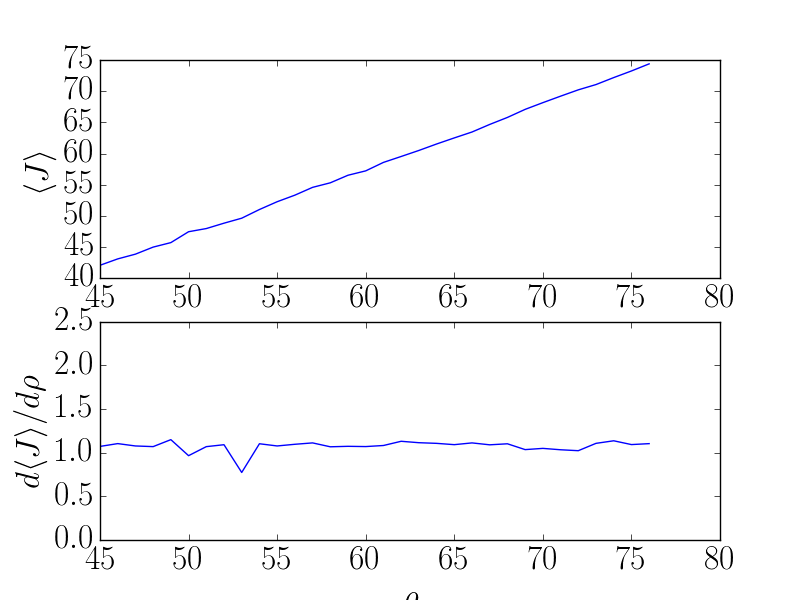
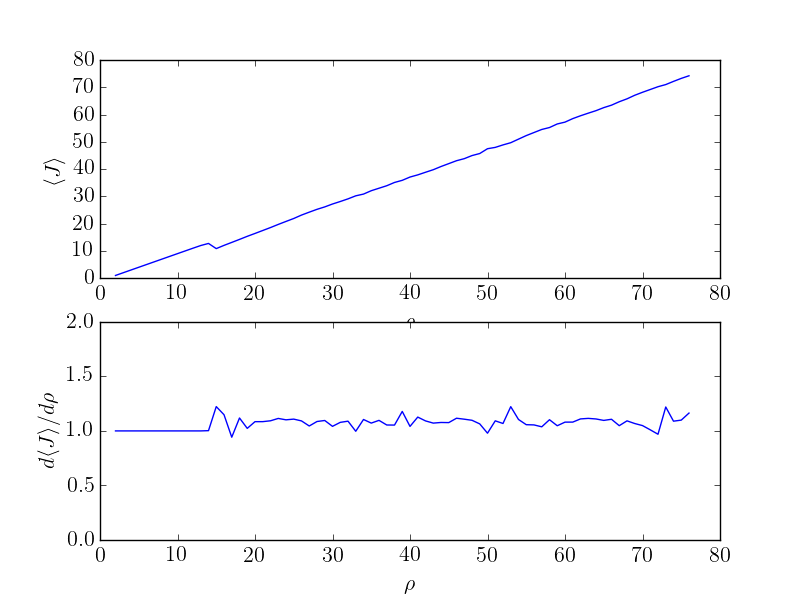
add a trick: when dealing with system has a fixed pt, use only v at the end

diff --git a/PythonApplication1/Nsegment_nus_css.py b/PythonApplication1/Nsegment_nus_css.py
@@ -83,9 +83,9 @@ def pushSeg(nseg, nstep, nus, nc, dt, u0, vstar0, w0):
 
 
 
-rho_lb = 45
+rho_lb = 2
 rho_ub = 76
-nseg = 40 #number of segments on time interval
+nseg = 100 #number of segments on time interval
 T_seg = 3 # length of each segment
 rho = 0 # make a global variable
 sigma = 10
@@ -171,9 +171,9 @@ for rho in range(rho_lb, rho_ub + 1):
     #plt.spy(M)
     #plt.show()
 
-    lbd = np.linalg.solve(M, rhs)
-    #lbd,temp = np.linalg.lstsq(M, rhs)
-    lbd = lbd[:nseg * nus]
+    #lbd = np.linalg.solve(M, rhs)
+    lbd = np.linalg.lstsq(M, rhs)
+    lbd = lbd[0][:nseg * nus]
     lbd = lbd.reshape([nseg, nus])
 
     # calculate v
@@ -204,14 +204,17 @@ for rho in range(rho_lb, rho_ub + 1):
     v_resu_perp = np.zeros_like(v_resu)
     f_resu = np.zeros_like(v_resu)
     ksi_resu = np.zeros([nseg * (nstep - 1) + 1])    
+    u_resu = np.zeros_like(v_resu)
     for iseg in range(0, nseg):
         for istep in range(0, nstep - 1):
             ii = iseg * (nstep - 1) + istep
+            u_resu[ii] = u[iseg, istep]
             v_resu[ii] = v[iseg, istep]
             v_resu_perp[ii] = v_perp[iseg, istep]
             f_resu[ii] = f[iseg, istep]
             ksi_resu[ii] = ksi[iseg, istep]
             t[ii] = ii * dt
+    u_resu[-1] = u[-1,-1]
     v_resu[-1] = v[-1,-1]
     v_resu_perp[-1] = v_perp[-1,-1]
     f_resu[-1] = f[-1,-1]
@@ -227,12 +230,21 @@ for rho in range(rho_lb, rho_ub + 1):
     #                        - (ksi_resu[-1]*u[-1,-1,2] -  ksi_resu[0]*u[0,0,2]) / T_total \
     #                        + (ksi_resu[-1] - ksi_resu[0]) * np.sum(u[:,:,2]) / (nseg * (nstep - 1) + 1) / T_total
 
-    # with dilation
-    dJdrho_arr[rho - rho_lb]= np.sum(v_resu_perp[:,2]) / (nseg * (nstep - 1) + 1) \
-                            - (ksi_resu[-1]*u[-1,-1,2] -  ksi_resu[0]*u[0,0,2]) / T_total \
-                            + (ksi_resu[-1] - ksi_resu[0]) * np.sum(u[:,:,2]) / (nseg * (nstep - 1) + 1) / T_total \
-                            + np.sum(f_resu[:,2] * ksi_resu) / (nseg * (nstep - 1) + 1)  
-                           
+    ## with dilation
+    #dJdrho_arr[rho - rho_lb]= np.sum(v_resu_perp[:,2]) / (nseg * (nstep - 1) + 1) \
+    #                        - (ksi_resu[-1] * u_resu[-1,2] -  ksi_resu[0] * u_resu[0,2]) / T_total \
+    #                        + (ksi_resu[-1] - ksi_resu[0]) * np.sum(u_resu[:,2]) / (nseg * (nstep - 1) + 1) / T_total \
+    #                        + np.sum(f_resu[:,2] * ksi_resu) / (nseg * (nstep - 1) + 1)  
+    
+    # with dilation, with special care on fixed point # no done
+    if np.sum((u_resu[-1000:,2] -np.average(u_resu[-1000:,2]))**2)  < 1e-3 * np.sum(u_resu[-1000:,2] **2):
+        dJdrho_arr[rho - rho_lb] = v_resu[-1,2]
+    else:
+        dJdrho_arr[rho - rho_lb]= np.sum(v_resu_perp[:,2]) / (nseg * (nstep - 1) + 1) \
+                            - (ksi_resu[-1] * u_resu[-1,2] -  ksi_resu[0] * u_resu[0,2]) / T_total \
+                            + (ksi_resu[-1] - ksi_resu[0]) * np.sum(u_resu[:,2]) / (nseg * (nstep - 1) + 1) / T_total \
+                            + np.sum(f_resu[:,2] * ksi_resu) / (nseg * (nstep - 1) + 1)   
+    pass                       
 
     
     ## plot u
@@ -257,7 +269,7 @@ for rho in range(rho_lb, rho_ub + 1):
 plt.rc('text', usetex=True)
 font = {'family' : 'normal',
         'weight' : 'bold',
-        'size'   : 24}
+        'size'   : 16}
 plt.rc('font', **font)
 
 # plot J vs r
@@ -271,7 +283,7 @@ plt.subplot(2,1,2)
 plt.plot(rho_arr, dJdrho_arr)
 plt.xlabel(r'$\rho$')
 plt.ylabel(r'$d \langle J \rangle / d \rho$')
-plt.ylim([0,2.5])
+plt.ylim([0,2.0])
 plt.savefig('withDilation_T2500.png')
 plt.show()
 
